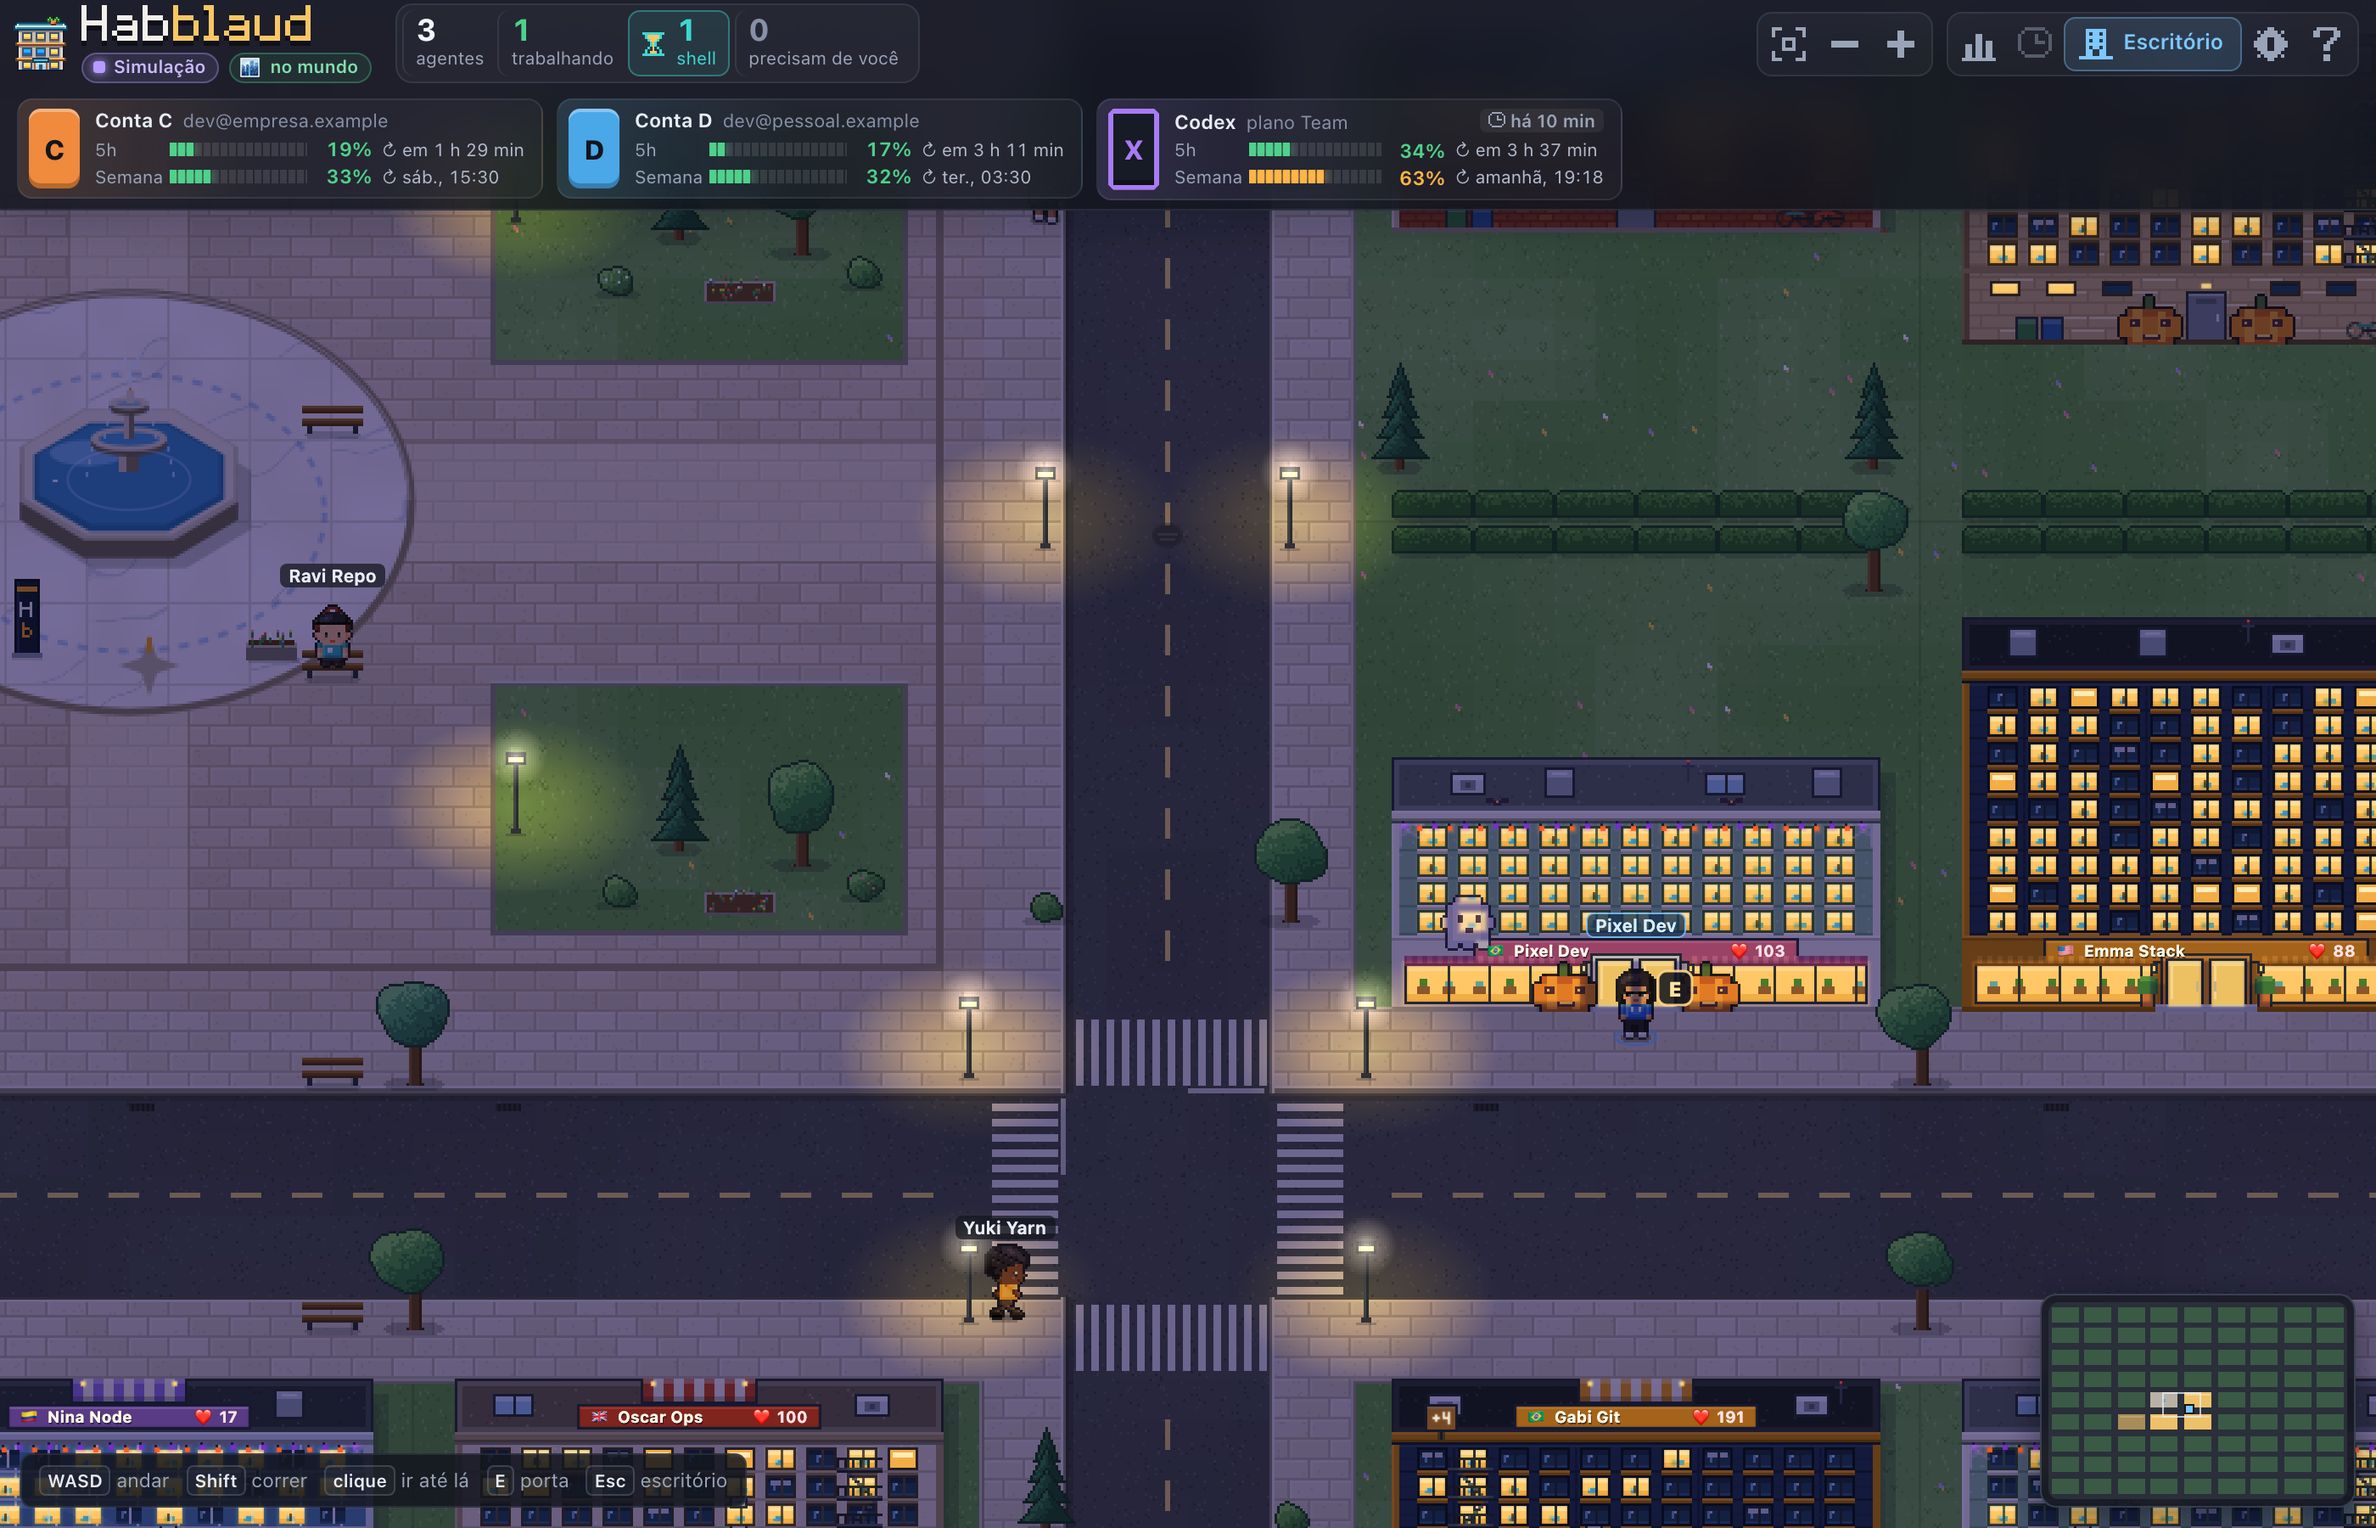
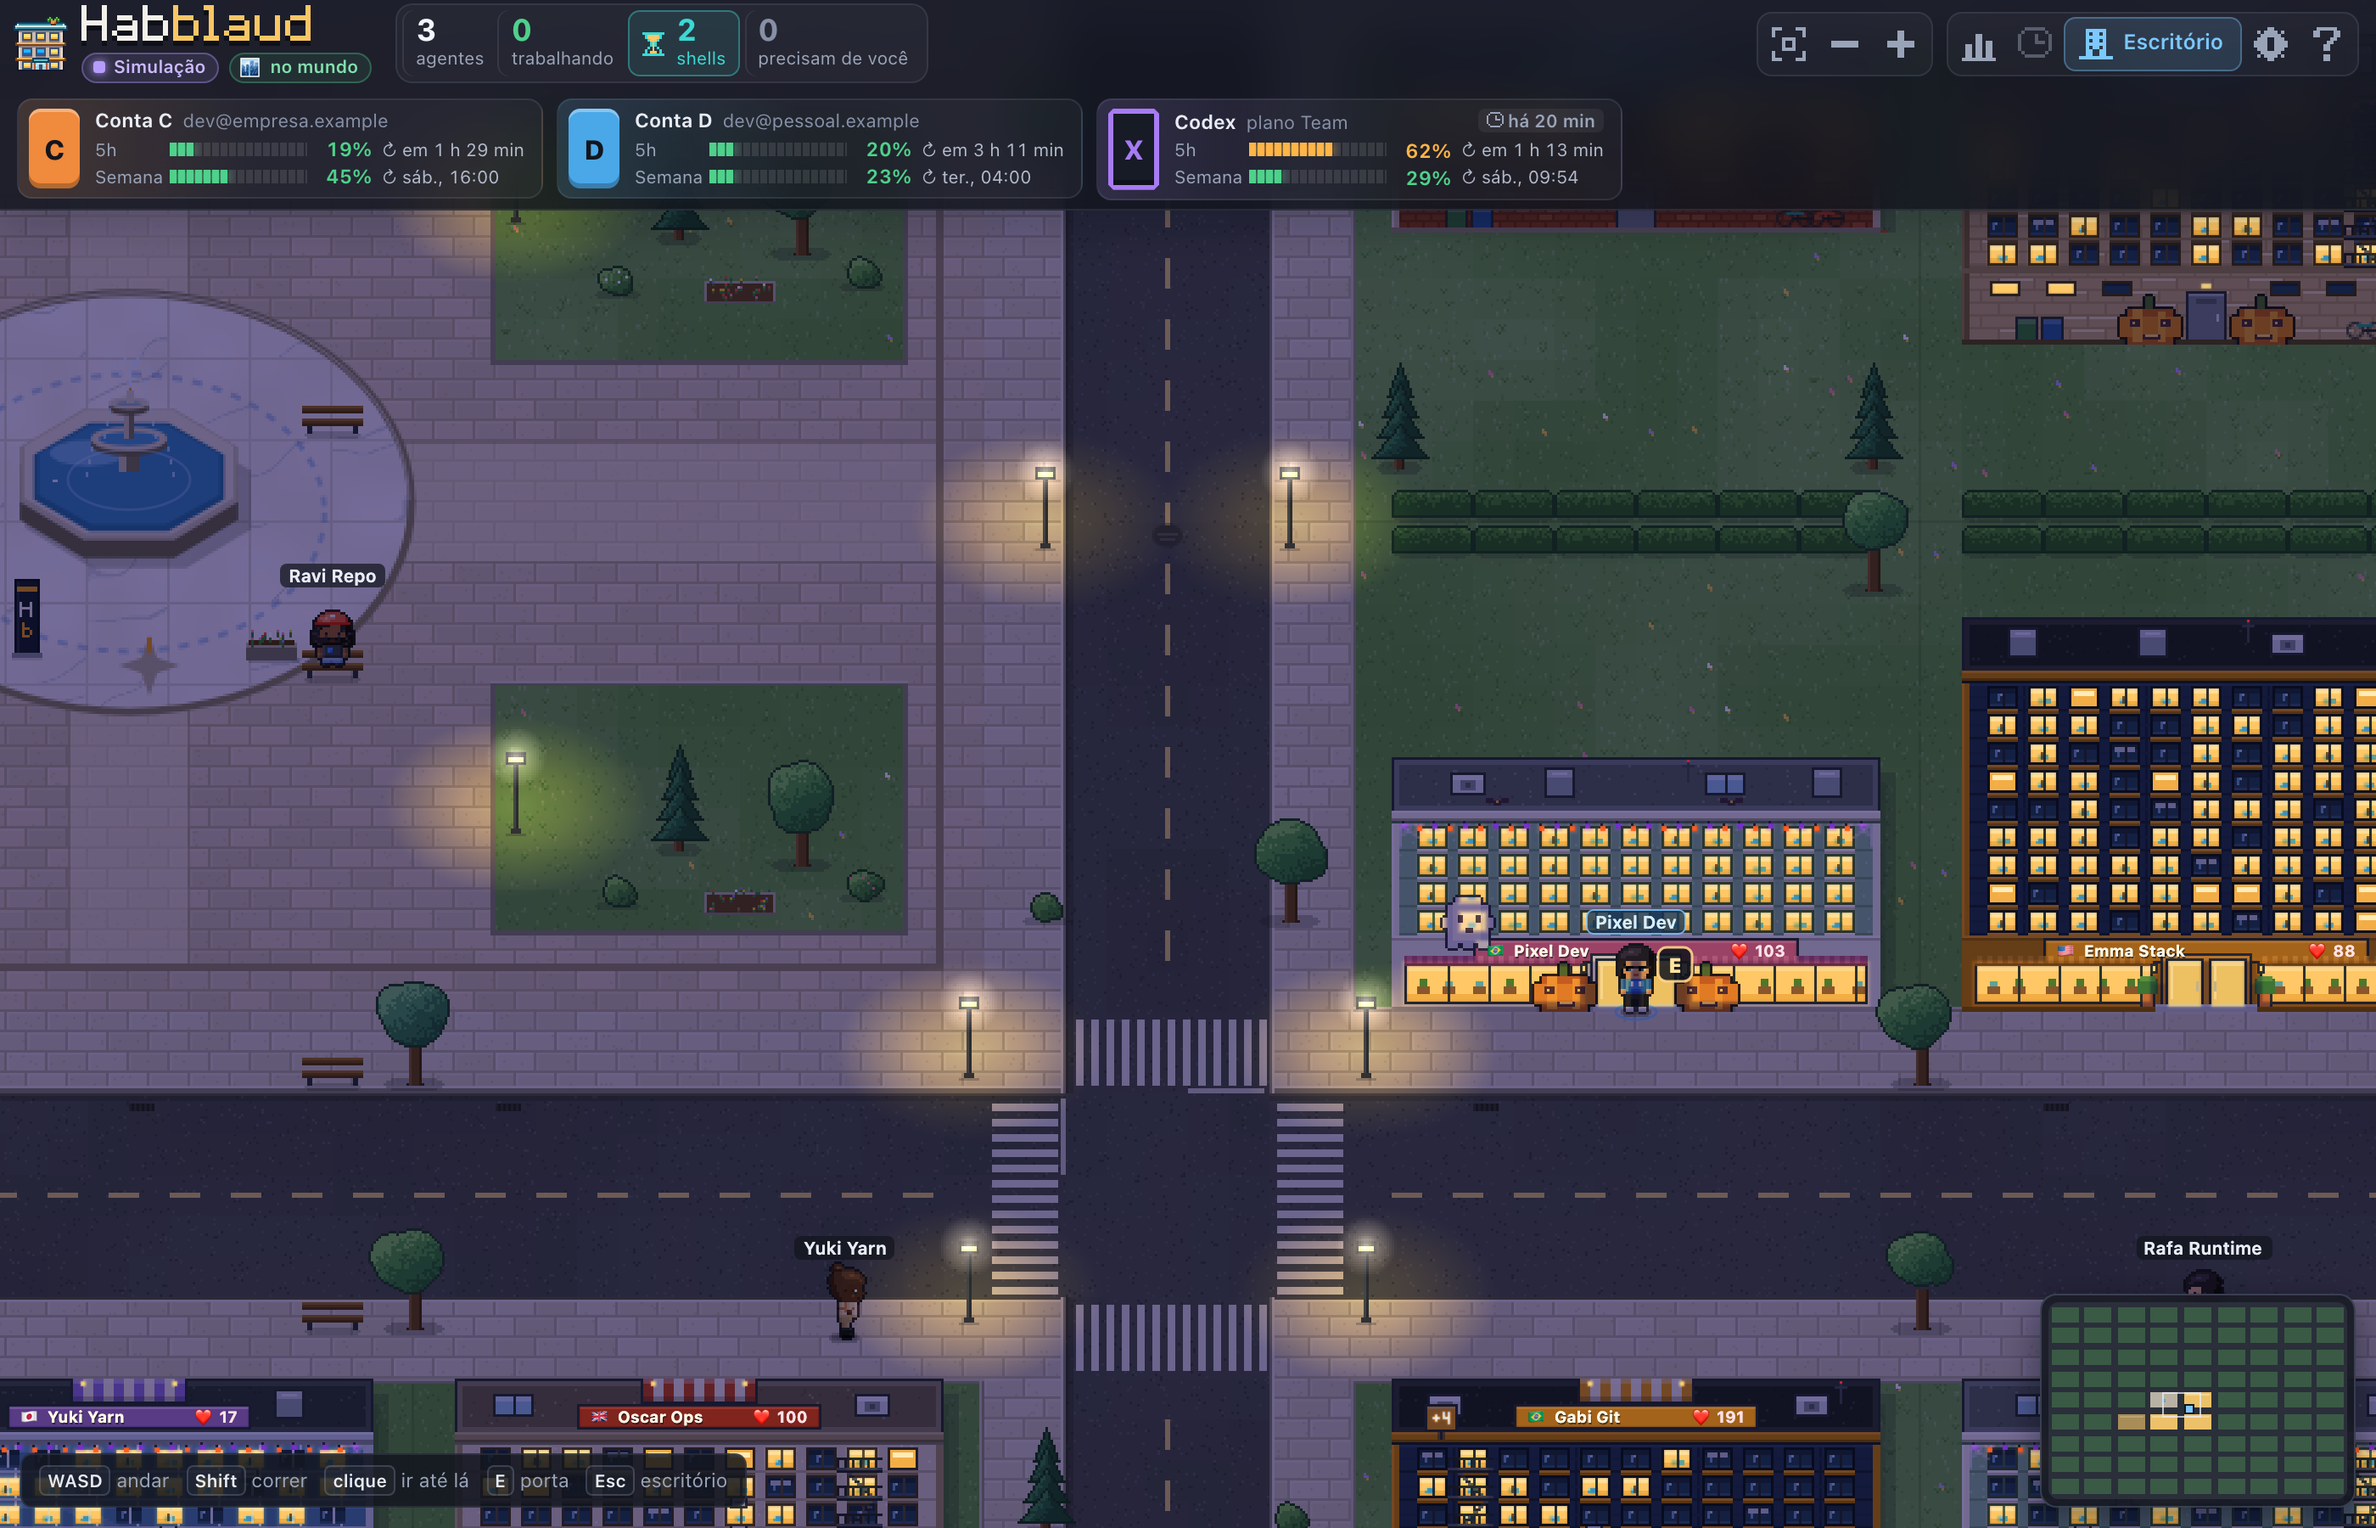
World: READMEs com as capturas da cidade, CHANGELOG da cena e as capturas refeitas
Os quatro READMEs ganham o botão Mundo e as capturas do modo demonstração (`world-cidade.png` e
`world-cartao.png`); o CHANGELOG fica com uma entrada só para a cidade, agora com a interpolação no ritmo das
posições, quem para no banco sentado, o ausente parado, o andar pausado ou fora do mundo, o botão que some com a
conta banida ou suspensa e a cidade falsa de uma só. As capturas saem da cidade falsa que ficou (o personagem na
posição em que o servidor põe quem tem prédio; o prédio de quem anda leva o nome dele).

Claude-Session: https://claude.ai/code/session_0184odBfMtHbNdi3CwshGHuK

diff --git a/CHANGELOG.md b/CHANGELOG.md
@@ -62,9 +62,9 @@ sair e o que nunca sai está em [`docs/world/privacidade.md`](docs/world/privaci
   conta e nomes editados nunca saem. Manda ao mudar (no máximo uma vez a cada 5 s), reconecta sozinho e para quando o
   servidor pede (conta suspensa, versão antiga, conectada em outro lugar). Agentes do modo demonstração nunca sobem.
   As tarefas e as compactações são contadas também com o prédio pausado ou sem conexão, e vão na remessa seguinte.
-- **Pausar e retomar o prédio** (`POST /api/world/pause` e `/resume`): pausar fecha a conexão antes de responder e
-  apaga o prédio na hora para todos; uma retomada que o servidor do mundo não confirmou tenta de novo com a espera da
-  reconexão (2 s a 60 s). **Sair do mundo** (`POST /api/world/leave`): fecha a conexão e só responde depois que o
+- **Pausar e retomar o prédio** (`POST /api/world/pause` e `/resume`): pausar para o envio antes de responder (a
+  conexão fecha, ou fica só para a cena Mundo aberta, sem o pacote) e apaga o prédio na hora para todos; uma retomada que o servidor do mundo não confirmou tenta de novo com a espera da
+  reconexão (2 s a 60 s). **Sair do mundo** (`POST /api/world/leave`): para o envio e só responde depois que o
   servidor do mundo retira o prédio (`DELETE /v1/me/building`). **Ver o que foi enviado**
   (`GET /api/world/last-uplink`): o pacote exato da última remessa, a hora, o tamanho e a resposta do servidor,
   guardado em `~/.habblaud/world-last-uplink.json` (permissão 600). O tema de Aparência vai para o prédio
@@ -86,12 +86,17 @@ sair e o que nunca sai está em [`docs/world/privacidade.md`](docs/world/privaci
   a câmera segue, com o zoom de sempre e afastando até ver uns 200 prédios; **E** perto de uma porta avisa que visitar
   vem em breve. Passar o mouse num prédio abre o cartão (dono, país, estado, andares até "24+", agentes trabalhando,
   esperando e à toa ou "modo discreto", likes, "no mundo desde"); clicar num jogador abre o perfil (personagem, país,
-  traços, frase, prédio e likes recebidos). Os outros jogadores andam suaves (150 ms atrás), com o nome em cima, e
-  sentam no banco quando ficam ausentes. O minimapa no canto mostra os quarteirões em volta, mais acesos quanto mais
-  prédios ligados, e leva a câmera até onde você clicar. Esc ou **Escritório** voltam; Configurações continua aberta
-  na cidade, e o escritório para de desenhar enquanto isso. A cena é carregada só quando abre. No modo demonstração,
-  `?mock=1&world=approved&scene=city` abre uma cidade de mentira (20 prédios e jogadores fictícios);
-  `npm run shots:world` também fotografa `docs/screenshots/world-cidade.png` e `world-cartao.png`.
+  traços, frase, prédio e likes recebidos). Os outros jogadores andam suaves, um pouco atrás, no ritmo em que as
+  posições chegam (5 por segundo para os 20 mais perto, 2,5 para os outros), com o nome em cima; quem para em cima de
+  um banco aparece sentado (você também), e ausente o seu personagem fica parado onde está. O minimapa no canto
+  mostra os quarteirões em volta, mais acesos quanto mais prédios ligados, e leva a câmera até onde você clicar. Esc
+  ou **Escritório** voltam; Configurações continua aberta na cidade, e o escritório para de desenhar enquanto isso. A cena é carregada só quando abre. **Pausado ou fora do
+  mundo, seu prédio fica apagado, mas você pode andar pela cidade**: com a cena aberta, a conexão leva só a primeira
+  mensagem, o sinal de vida e os comandos da cena, nunca o pacote do prédio, e fecha junto com a cena. Conta banida ou
+  suspensa (ou o prédio parado por versão antiga ou por outro computador): o botão Mundo some. No modo demonstração,
+  `?mock=1&world=approved&scene=city` abre uma cidade de mentira (20 prédios, o seu no lote (3,1), 5 pessoas andando e
+  uma sentada num banco da praça; `&perf=N` enche N lotes); `npm run shots:world` também fotografa
+  `docs/screenshots/world-cidade.png` e `world-cartao.png`.
   **Pelo servidor local:** com a cena aberta, o Habblaud pede ao servidor do mundo o pedaço da cidade em volta do seu
   personagem (`view`) pela mesma conexão do prédio e repassa ao navegador por `GET /api/world/stream` (SSE: o estado
   inteiro ao abrir, depois cada mudança na ordem); fechada a cena, avisa (`view.off`) e nada mais desce. Prédios por
@@ -100,7 +105,8 @@ sair e o que nunca sai está em [`docs/world/privacidade.md`](docs/world/privaci
   bloqueio e denúncia) são conferidos campo a campo, no máximo 5 lotes por segundo e só o último passo de cada lote;
   no máximo 4 abas com a cidade. Só pelo próprio computador e só pela própria página (nunca por outro site). A
   geometria da cidade (lotes, quarteirões, portas, chunks e o que é caminhável) fica em `shared/world/city.ts`, a
-  mesma do servidor do mundo.
+  mesma do servidor do mundo. O seu personagem entra na rua na posição que o servidor do mundo validou (na calçada da
+  sua porta ou na praça).
 - **Voltar ao mundo** (`POST /api/world/join`): depois de sair, o cartão pede a volta ao servidor do mundo
   (`POST /v1/me/building/join`) antes de reconectar; o prédio volta novo, em outro lote. Sair do mundo em outro
   computador também vale aqui: o pacote recusado (`left`) ou a conta marcada como fora do mundo deixam este Habblaud

diff --git a/README.fr.md b/README.fr.md
@@ -793,6 +793,12 @@ liste anonyme de la page de confidentialité : étages, agents, statuts, avatars
 l'éteint aussitôt et garde la parcelle ; **Quitter le monde** retire l'immeuble et libère la parcelle (le compte et le
 personnage restent, et revenir crée un nouvel immeuble).
 
+Le bouton **Monde**, dans la barre du haut, remplace le bureau par la ville : on marche avec les flèches/WASD ou en
+cliquant, la carte de chaque immeuble montre étages, agents et état, et la minicarte reste dans le coin ; en pause ou
+hors du monde, votre immeuble reste éteint, mais vous pouvez vous promener dans la ville. En mode démonstration
+(`?mock=1&world=approved&scene=city`, uniquement des immeubles et des personnes fictifs) : [la ville](docs/screenshots/world-cidade.png)
+et [la carte d'un immeuble](docs/screenshots/world-cartao.png).
+
 Le compte reste uniquement sur cet ordinateur, dans `~/.habblaud/world.json` (dans Docker, dans le volume `/data`), et la
 section ne fonctionne que depuis l'ordinateur lui-même. Ce qui sort de l'ordinateur et ce qui n'en sort jamais (en
 portugais) : [docs/world/privacidade.md](docs/world/privacidade.md). L'aspect de la section, en mode démonstration

diff --git a/README.es.md b/README.es.md
@@ -790,6 +790,12 @@ la página de privacidad: pisos, agentes, estados, avatares y tokens redondeados
 guarda el lote; **Salir del mundo** retira el edificio y libera el lote (la cuenta y el personaje se mantienen, y volver
 crea un edificio nuevo).
 
+El botón **Mundo**, en la barra superior, cambia la oficina por la ciudad: se camina con las flechas/WASD o haciendo
+clic, la tarjeta de cada edificio muestra pisos, agentes y estado, y el minimapa queda en la esquina; en pausa o fuera
+del mundo, tu edificio queda apagado, pero puedes pasear por la ciudad. En el modo demostración
+(`?mock=1&world=approved&scene=city`, solo edificios y personas ficticios): [la ciudad](docs/screenshots/world-cidade.png)
+y [la tarjeta de un edificio](docs/screenshots/world-cartao.png).
+
 La cuenta queda solo en esta computadora, en `~/.habblaud/world.json` (en Docker, en el volumen `/data`), y la sección
 solo funciona desde la propia computadora. Lo que sale y lo que nunca sale de la computadora (en portugués):
 [docs/world/privacidade.md](docs/world/privacidade.md). Cómo se ve la sección, en el modo demostración

diff --git a/README.md b/README.md
@@ -756,6 +756,11 @@ only the anonymous list on the privacy page: floors, agents, statuses, avatars a
 off right away and keeps the lot; **Leave the world** removes the building and frees the lot (the account and the
 character stay, and coming back creates a new building).
 
+The **World** button in the top bar swaps the office for the city: walk with the arrows/WASD or by clicking, each
+building's card shows floors, agents and status, and the minimap sits in the corner; paused or out of the world, your
+building stays dark, but you can still walk around the city. In demo mode (`?mock=1&world=approved&scene=city`, only
+fictional buildings and people): [the city](docs/screenshots/world-cidade.png) and [a building's card](docs/screenshots/world-cartao.png).
+
 The account stays only on this computer, in `~/.habblaud/world.json` (in Docker, in the `/data` volume), and the section
 only works from this computer. What leaves your computer and what never does (in Portuguese):
 [docs/world/privacidade.md](docs/world/privacidade.md). How the section looks, in demo mode (`?mock=1&world=logged_out`,

diff --git a/README.pt-BR.md b/README.pt-BR.md
@@ -754,6 +754,11 @@ página de privacidade: andares, agentes, status, avatares e tokens arredondados
 guarda o lote; **Sair do mundo** retira o prédio e libera o lote (a conta e o personagem continuam, e voltar cria um
 prédio novo).
 
+O botão **Mundo**, na barra do topo, troca o escritório pela cidade: anda-se com setas/WASD ou clicando, o cartão de
+cada prédio mostra andares, agentes e estado, e o minimapa fica no canto; pausado ou fora do mundo, o seu prédio fica
+apagado, mas dá para andar pela cidade. No modo demonstração (`?mock=1&world=approved&scene=city`, só prédios e
+pessoas fictícios): [a cidade](docs/screenshots/world-cidade.png) e [o cartão de um prédio](docs/screenshots/world-cartao.png).
+
 A conta fica só neste computador, em `~/.habblaud/world.json` (no Docker, no volume `/data`), e a seção só funciona pelo
 próprio computador. O que sai e o que nunca sai do computador: [docs/world/privacidade.md](docs/world/privacidade.md).
 Como a seção fica, no modo demonstração (`?mock=1&world=logged_out`, `waiting` ou `approved`):
